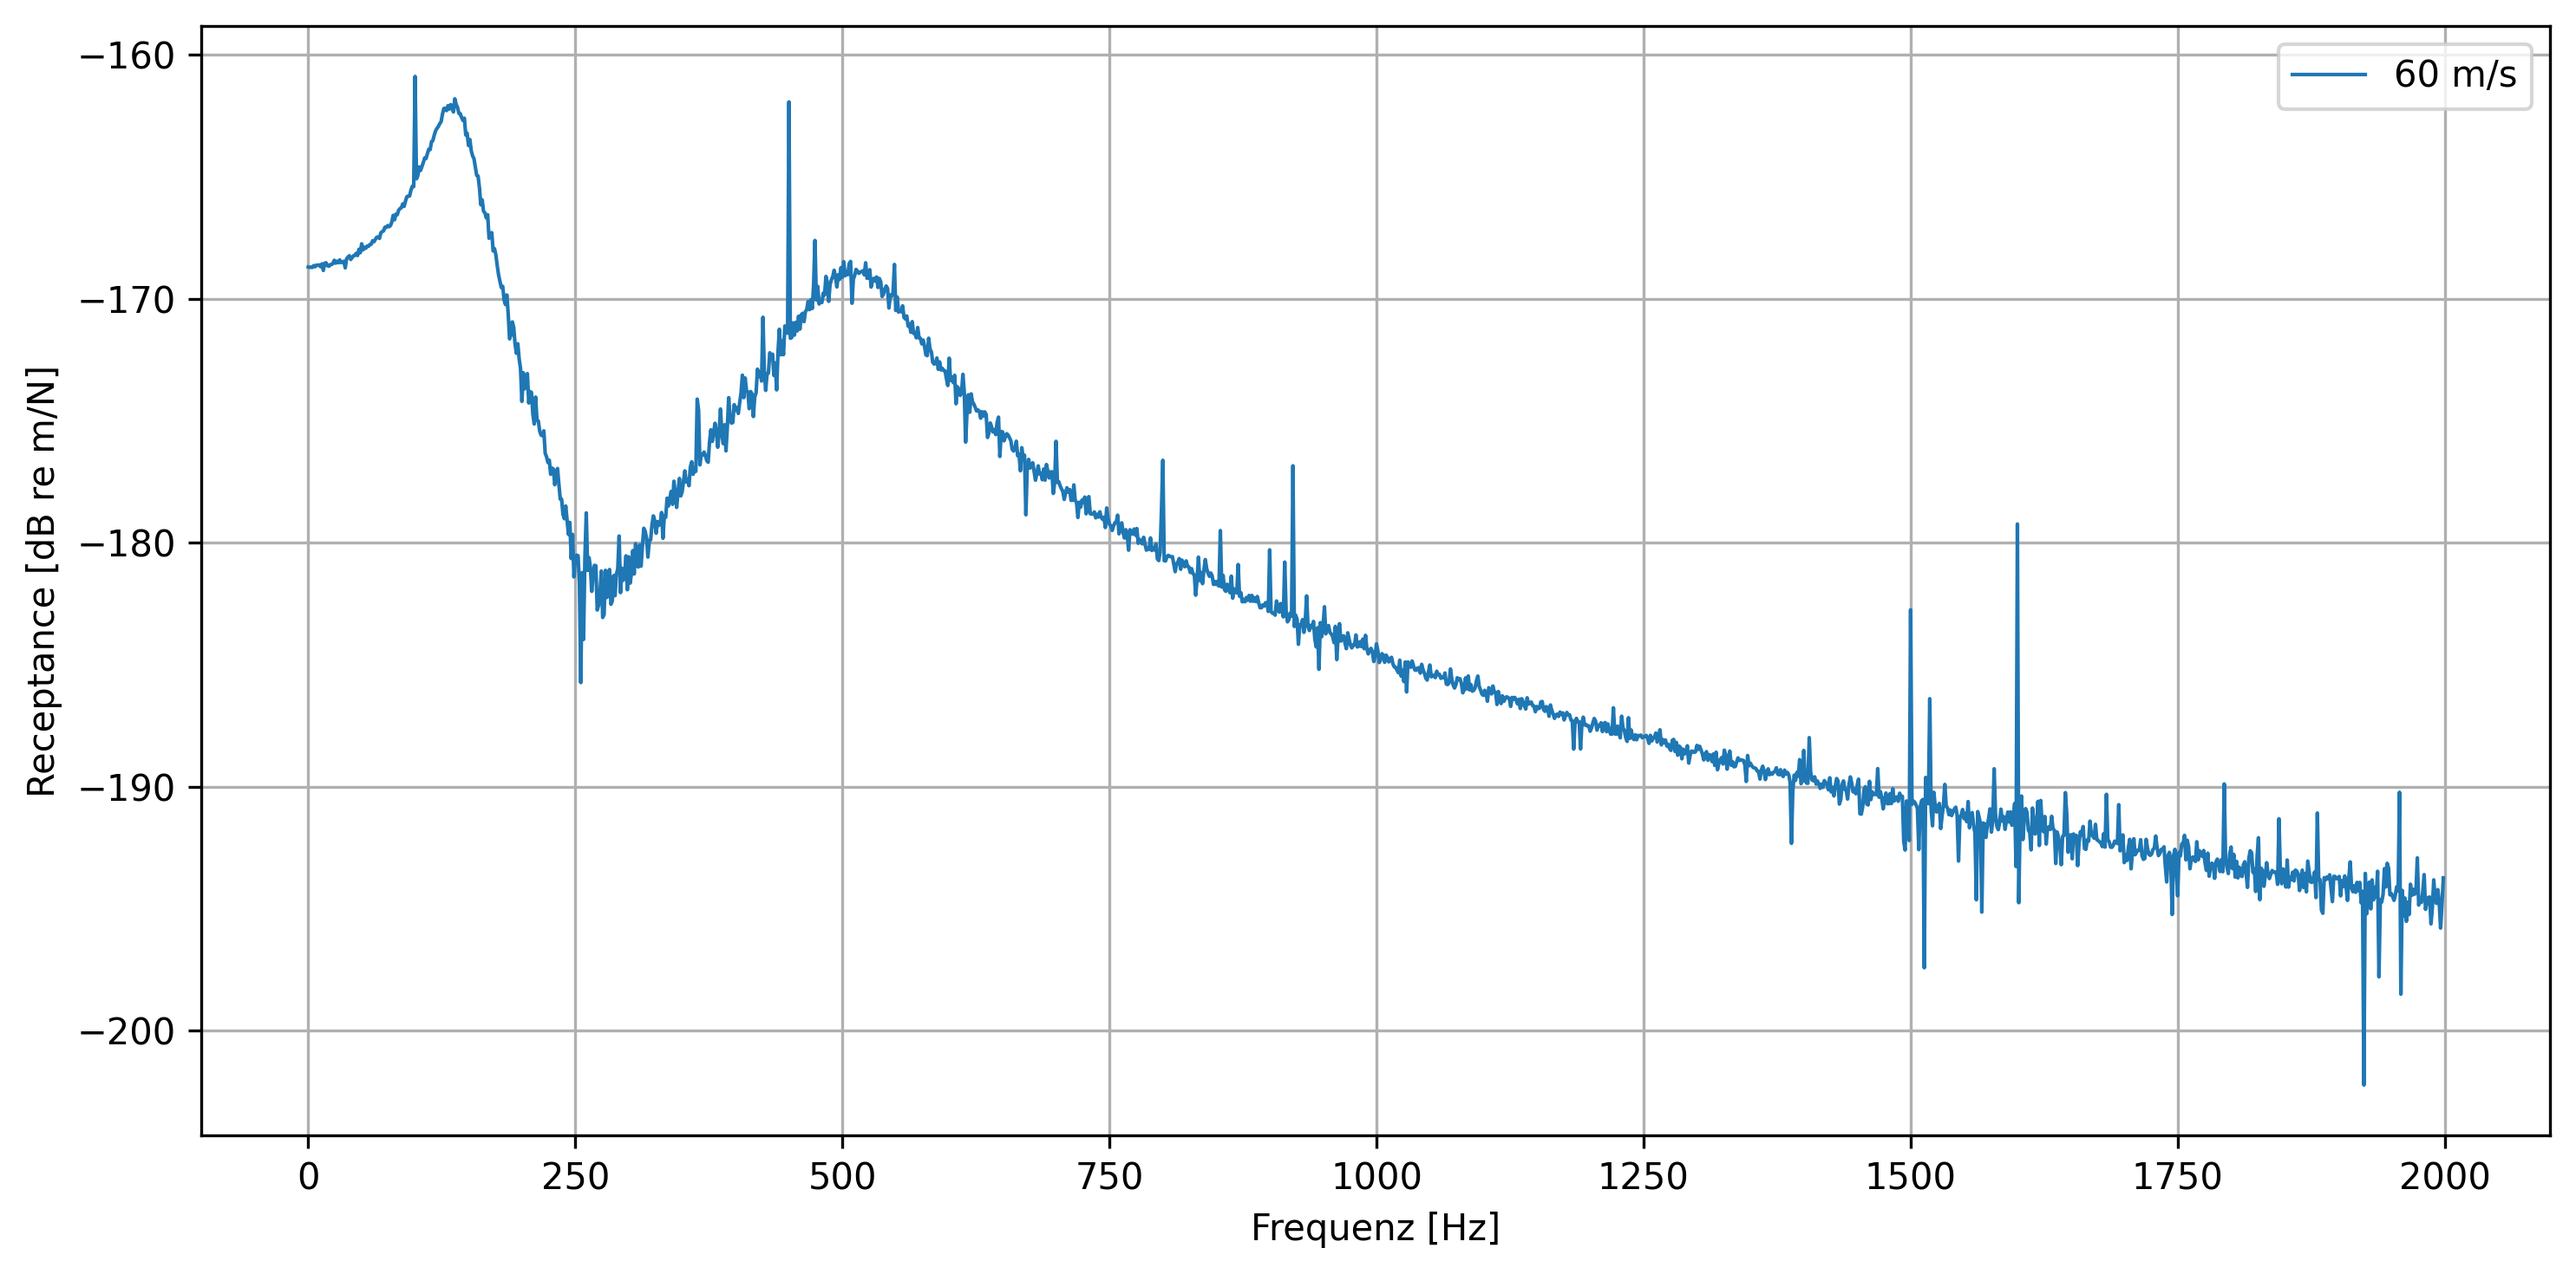
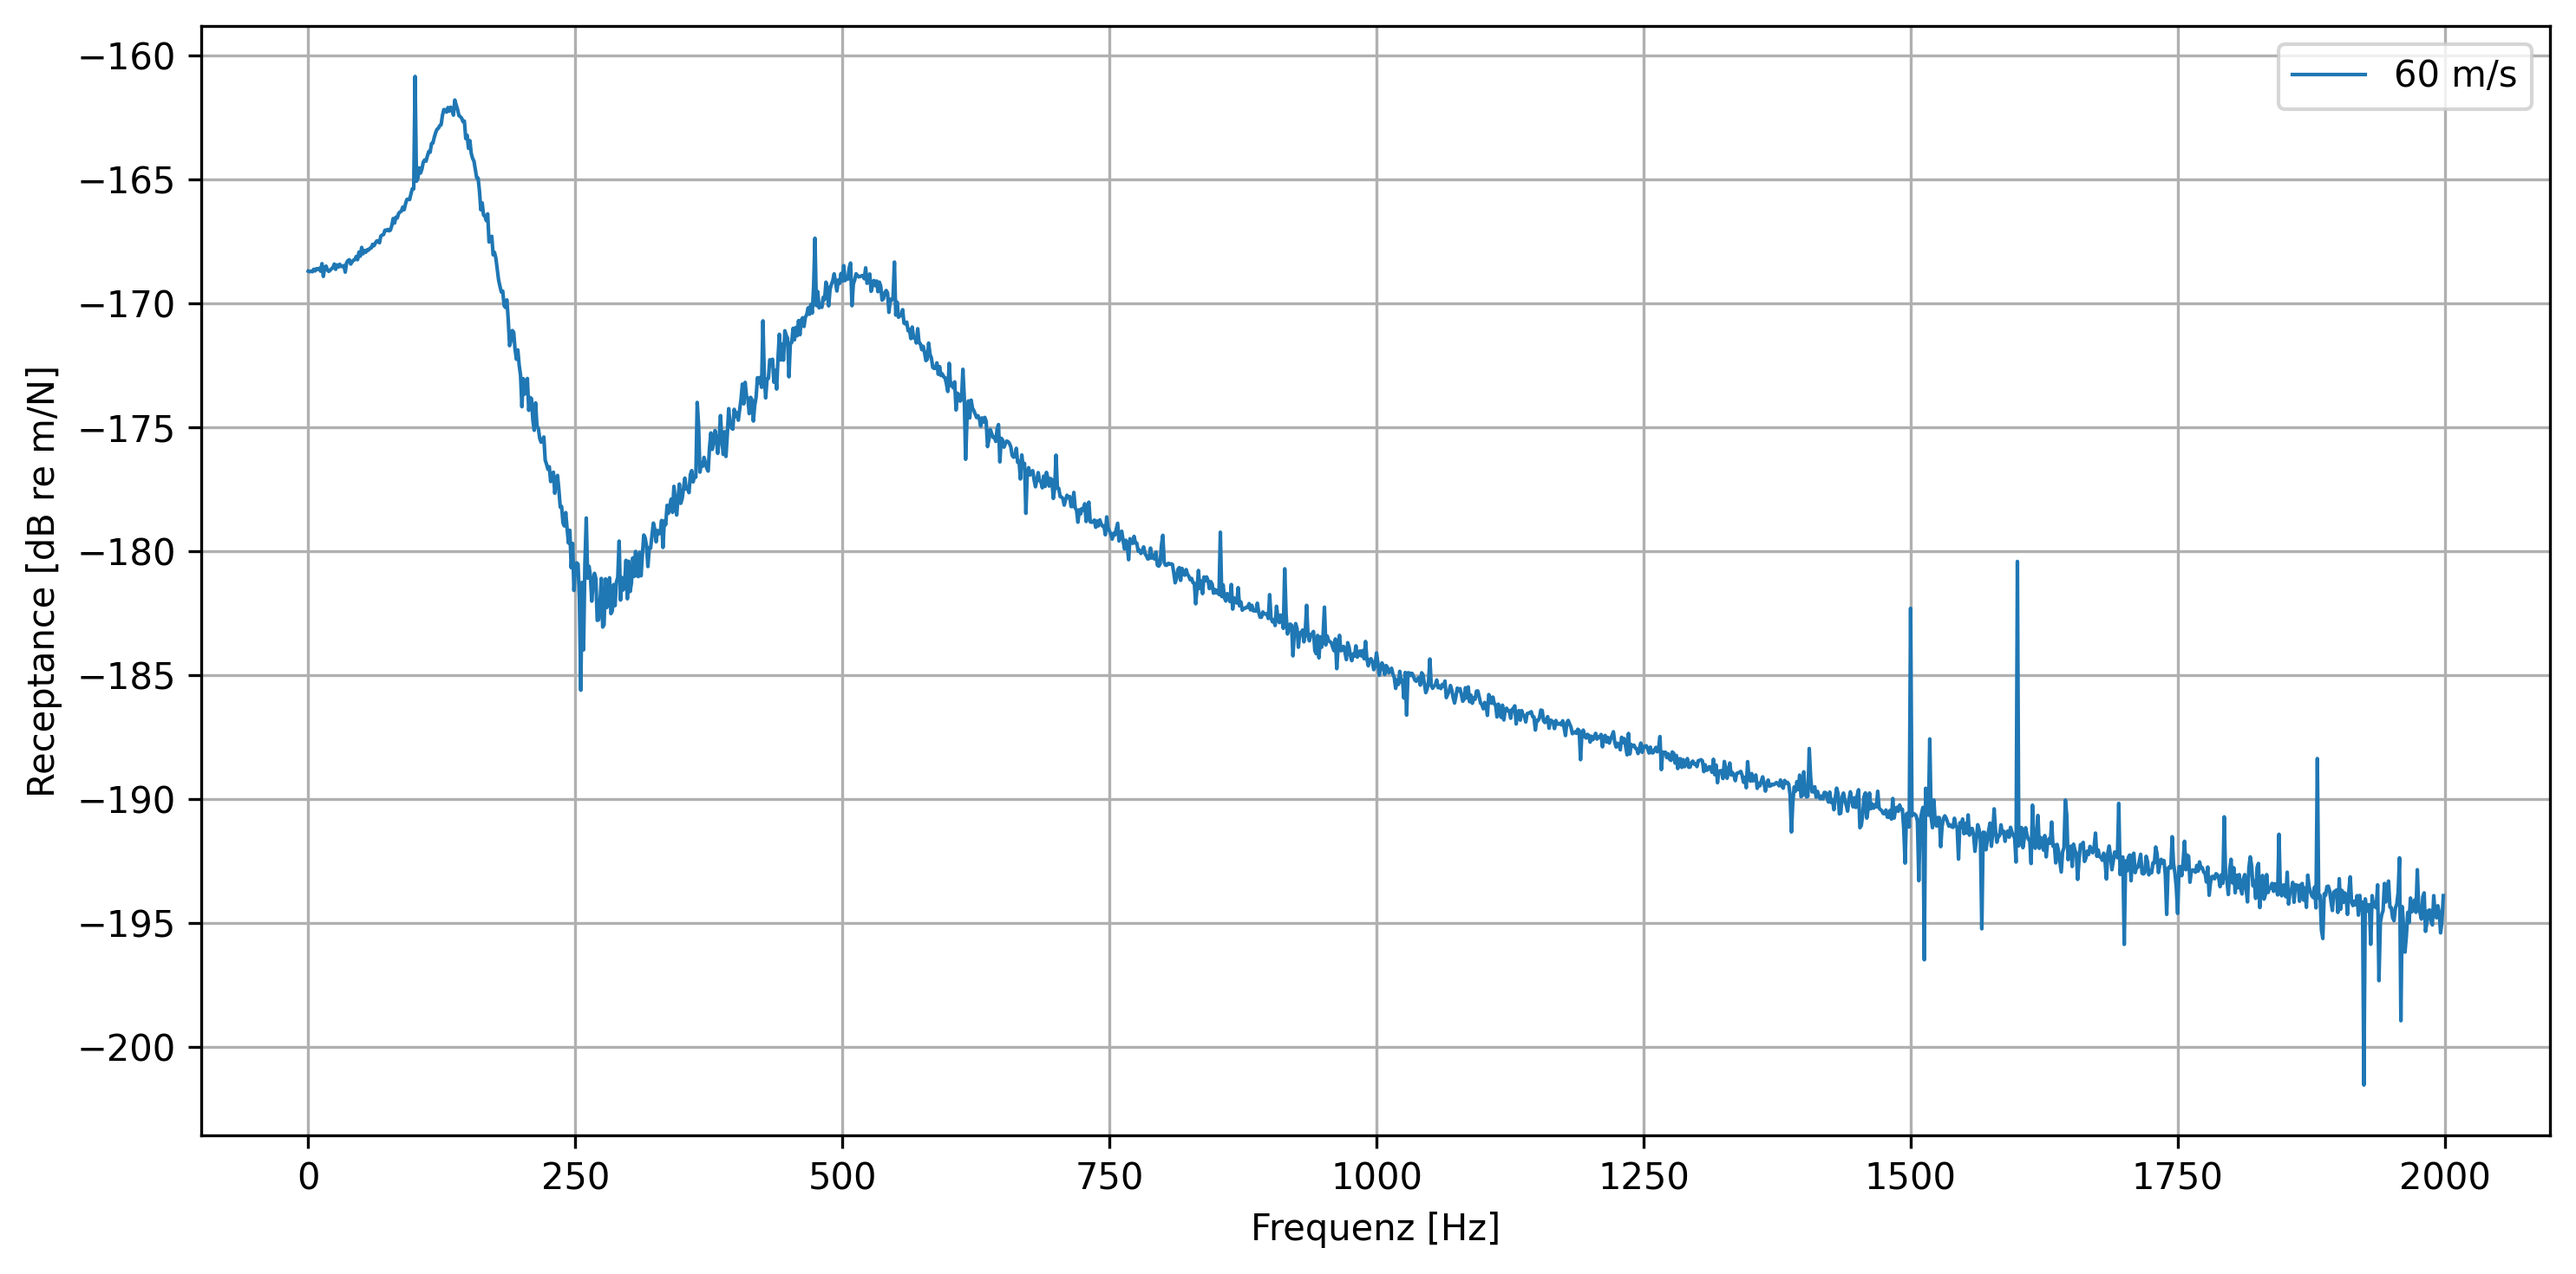
correct indexing

diff --git a/rolland/deflection.py b/rolland/deflection.py
@@ -59,7 +59,6 @@ class DeflectionEBBVertic(Deflection):
     excitation_index : int
         Index of excitation point :math:`[-]`.
     """
-
     store_deflection = Bool(default_value=True)
 
     def validate_deflection(self):
@@ -82,9 +81,7 @@ class DeflectionEBBVertic(Deflection):
     def calc_force(self):
         """Calculate force array."""
         t = linspace(0, self.discr.sim_t, self.discr.nt)
-        full_force = self.excit.force(t)
-        # cut last value from force array to match number of time steps (nt) used in deflection calculation
-        self.force = full_force[:-1]  
+        self.force = self.excit.force(t)
 
     def calc_rightside_crank_nicolson(self, u1, u0, excitation_index, t):
         """Calculate the right-hand side of the equation according to :cite:t:`stampka2022a`.
@@ -143,6 +140,10 @@ class DeflectionEBBVertic(Deflection):
         # Factorization of matrix A (LU decomposition)
         factoriz = splu(self.discr.A)
 
+        for i in range(len(self.excitation_indices)):
+            # Store initial deflection at contact points (should be zero at t=0)
+            self.contact_point_deflection[i].append(0)  # initial deflection at t=0
+
         for t in range(1, self.discr.nt):
             # Calculate current positions based on velocity
             dx = round((self.excit.velocity * t * self.discr.dt) / self.discr.dx)   # Calculate how many grid points the load has moved
@@ -151,19 +152,18 @@ class DeflectionEBBVertic(Deflection):
             # Calculate right hand side of equation
             b = self.calc_rightside_crank_nicolson(
                 u1 = defl[:, t],
-                u0 = defl[:, t - 1],
+                u0 = defl[:, t-1],
                 excitation_index = excitation_now,
-                t = t - 1  # Anpassung des Force-Index
+                t = t
             )
 
             # Calculate deflection for time step t
             u = factoriz.solve(b)
-            defl[:, t + 1] = u[0:2 * self.discr.nx]
+            defl[:, t+1] = u[0:2 * self.discr.nx]
             
             # Store deflection at each contact point
             for i, idx in enumerate(excitation_now):
-                if 0 <= idx < len(defl):  # Only store if point is still within domain
-                    self.contact_point_deflection[i].append(defl[idx, t])
+                self.contact_point_deflection[i].append(defl[idx, t+1]) # Store deflection at newly calculated contact point
         
         return defl
 

diff --git a/Moving_Force.py b/Moving_Force.py
@@ -28,6 +28,7 @@ import numpy as np
 import matplotlib.pyplot as plt
 import os
 import csv
+import math
 from scipy.fft  import fft, fftfreq
 from pathlib    import Path
 
@@ -38,6 +39,7 @@ from pathlib    import Path
 store_deflection    = False     # TODO: this is not implemented yet!
 starting_position   = 80.0      # Starting position [m]
 num_mount           = 400       # Number of discrete mounting positions
+distance            = 0.6       # Distance between sleepers [m]
 l_bound             = 40.0      # width of boundary domain
 req_simt            = 1         # Required simulation time [s]
 dt                  = 2.2e-5    # time step [s]
@@ -68,8 +70,10 @@ track = SimplePeriodicBallastedSingleRailTrack(
                 # eta_b = 0.4       # Ballast loss factor [-]
     ),
     num_mount   = num_mount,        # Number of discrete mounting positions
-    distance    = 0.6               # Distance between sleepers [m]
+    distance    = distance          # Distance between sleepers [m]
 )
+
+ppf = math.pi/(2*distance**2) * math.sqrt(track.rail.E*track.rail.Iyr / track.rail.mr) # first pinned-pinned frequency	
 
 # =============================================================================
 # 2. SIMULATION SETUP
@@ -213,7 +217,7 @@ for vel in velocities:
     #     simulation_time = discretization.req_simt,
     # )
 
-    # # 4.2 Calculate frequency response at excitation point
+    # 4.2 Calculate frequency response at excitation point
     # response = resp(results = deflection_results)
 
     # # 4.3 Plot both mobility and receptance in two subplots
